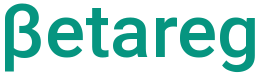
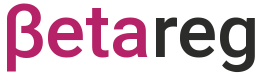
change style of betareg page to employ topmodels-like branding, publish under topmodels page rather than in own repository
git-svn-id: svn://svn.r-forge.r-project.org/svnroot/betareg@329 edb9625f-4e0d-4859-8d74-9fd3b1da38cb

diff --git a/pkg/altdoc/custom.scss b/pkg/altdoc/custom.scss
@@ -3,17 +3,17 @@
 @import url(http://fonts.googleapis.com/css?family=Source+Code+Pro:400italic,700italic,400,700);
 $font-family-sans-serif: 'Roboto';
 
-/* hcl(170, c(45, 15), c(55, 90)) */
+/* hcl(351, c(89.3, 22), c(41, 90)) */
 $body-color: #333333 !default;
-$link-color: #069580;
+$link-color: #b52267;
 $code-color: #333333;
-$navbar-bg: #CCE8E1;
-$navbar-fg: #069580;
-$navbar-hl: #069580;
+$navbar-bg: #ececec;
+$navbar-fg: #b52267;
+$navbar-hl: #b52267;
 $sidebar-fg: #333333;
-$sidebar-hl: #069580;
-$toc-color: #069580;
-$toc-hl: #069580;
+$sidebar-hl: #b52267;
+$toc-color: #b52267;
+$toc-hl: #b52267;
 
 /*-- scss:rules --*/
 .navbar-brand-container {
